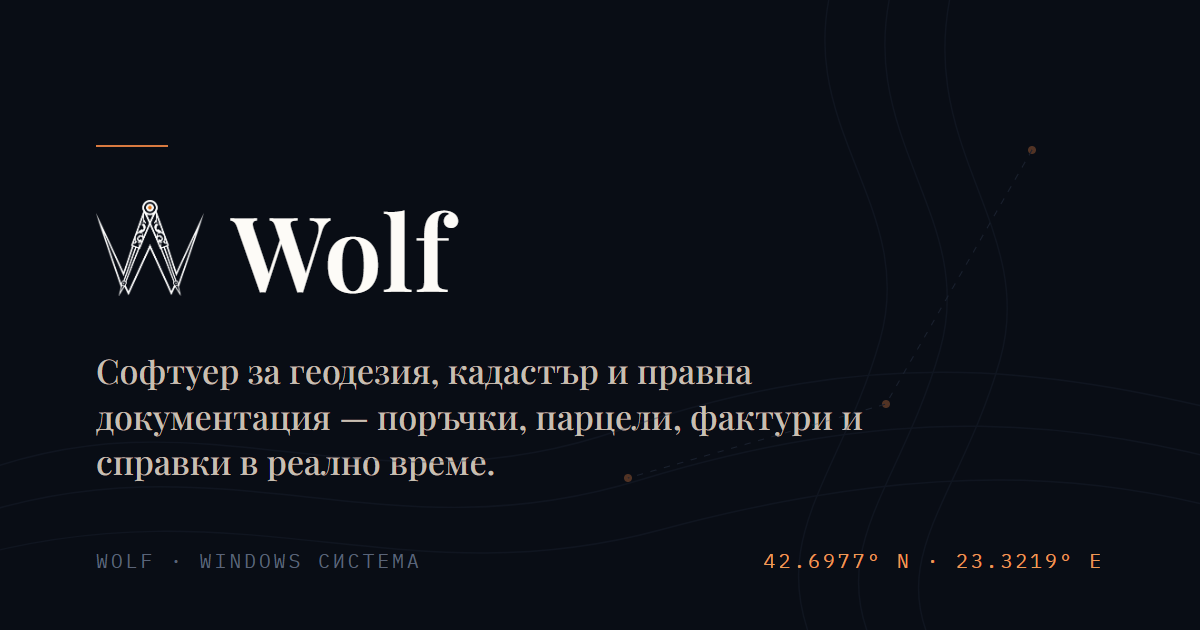
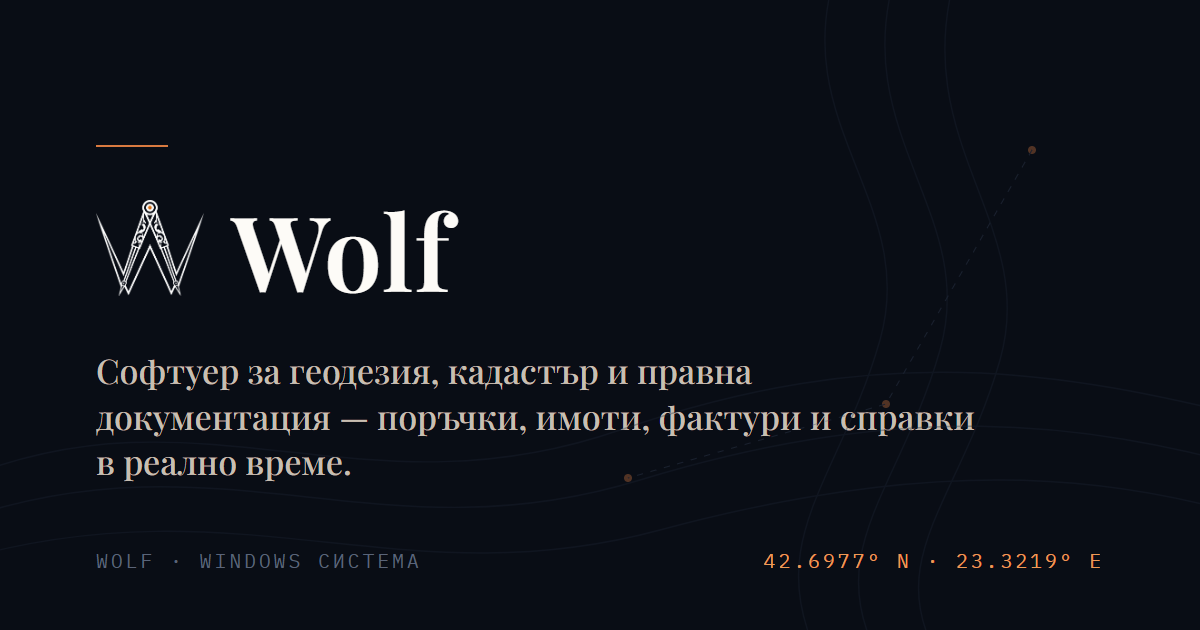
BG wording: 'partsel' -> 'imot' across site copy and OG image

Changed region(s): [[0.4625, 0.6333, 0.8325, 0.6937], [0.0617, 0.7238, 0.4317, 0.7841]]

diff --git a/src/lib/i18n/dictionaries.ts b/src/lib/i18n/dictionaries.ts
@@ -21,7 +21,7 @@ const bg = {
   meta: {
     title: "Wolf — Софтуер за геодезия, кадастър и правна документация",
     description:
-      "Wolf е многопотребителска система за управление на геодезическа, кадастрална и правна практика — поръчки, дейности, парцели, документи за собственост, фактуриране и отчети в реално време.",
+      "Wolf е многопотребителска система за управление на геодезическа, кадастрална и правна практика — поръчки, дейности, имоти, документи за собственост, фактуриране и отчети в реално време.",
   },
   nav: {
     product: "Продукт",
@@ -37,12 +37,12 @@ const bg = {
     titleA: "Поръчката,",
     titleB: "проследена до",
     titleC: "идеалната част.",
-    lead: "Wolf обединява поръчки, дейности и задачи, парцели и документи за собственост, фактури и отчети в една родна Windows система — с реална синхронизация между всички служители.",
+    lead: "Wolf обединява поръчки, дейности и задачи, имоти и документи за собственост, фактури и отчети в една родна Windows система — с реална синхронизация между всички служители.",
     ctaPrimary: "Заявете демо",
     ctaSecondary: "Разгледайте възможностите",
     note: "Изградено за геодезически, кадастрални и правни практики в България.",
     floatA: "Поръчка → дейности → задачи",
-    floatB: "Парцел → документ → собственик",
+    floatB: "Имот → документ → собственик",
     coord: "42.6977° N · 23.3219° E",
     scroll: "Скролирайте",
   },
@@ -61,7 +61,7 @@ const bg = {
     eyebrow: "Защо Wolf",
     title: "Специализирана, не обща CRM система",
     subtitle:
-      "Моделирането на собствеността — парцел ↔ документ ↔ собственик ↔ пълномощно с дробни идеални части — е същината, която общите инструменти не покриват.",
+      "Моделирането на собствеността — имот ↔ документ ↔ собственик ↔ пълномощно с дробни идеални части — е същината, която общите инструменти не покриват.",
     featured: {
       title: "Всеки отчита своята работа",
       body: "Wolf се различава от другите системи по това, че всеки служител отчита работата си поотделно. Виждате не само общото производство на практиката, а и самостоятелния принос на всеки — основа за по-коректно разпределение на възнагражденията спрямо труда и за по-точна отчетност на фирмата.",
@@ -78,7 +78,7 @@ const bg = {
       },
       {
         title: "Без чакане",
-        body: "Търсене, филтри и списъци реагират мигновено — дори с хиляди поръчки, парцели и задачи.",
+        body: "Търсене, филтри и списъци реагират мигновено — дори с хиляди поръчки, имоти и задачи.",
       },
       {
         title: "Грижи се само за себе си",
@@ -100,7 +100,7 @@ const bg = {
       orders: {
         tag: "Поръчки",
         title: "Поръчки — централният екран",
-        body: "Всички поръчки на практиката в една таблица: статус, плащане, цена, аванс, парцели и създател. Създаване, редакция, архивиране, търсене в реално време, цветни звезди по служител и автоматично изчислен статус на плащане.",
+        body: "Всички поръчки на практиката в една таблица: статус, плащане, цена, аванс, имоти и създател. Създаване, редакция, архивиране, търсене в реално време, цветни звезди по служител и автоматично изчислен статус на плащане.",
         bullets: [
           "Звезди по служител с палитра и цветови филтър",
           "Статус на плащане: платено / аванс / неплатено",
@@ -110,7 +110,7 @@ const bg = {
       titleChain: {
         tag: "Имоти и документи",
         title: "Веригата на собствеността",
-        body: "Тройната връзка парцел ↔ документ ↔ собственик ↔ пълномощно записва идеалните части, начина на придобиване и типа собственост. Това е специализираното сърце на кадастралния модел.",
+        body: "Тройната връзка имот ↔ документ ↔ собственик ↔ пълномощно записва идеалните части, начина на придобиване и типа собственост. Това е специализираното сърце на кадастралния модел.",
         bullets: [
           "Пълни кадастрални данни: КИ, УПИ, местност, община",
           "Нотариални актове, договори, завещания, актове за собственост",
@@ -130,7 +130,7 @@ const bg = {
       filters: {
         tag: "Филтри",
         title: "Разширени филтри за поръчки",
-        body: "Бързи превключватели (маркирани, просрочени, лични, за днес, за седмицата), падащи менюта по статус и текстови търсения по номер, име, населено място, парцел и УПИ.",
+        body: "Бързи превключватели (маркирани, просрочени, лични, за днес, за седмицата), падащи менюта по статус и текстови търсения по номер, име, населено място, имот и УПИ.",
         bullets: [
           "Множествен избор: клиенти, собственици, служители",
           "Филтри по статус на архив, задача и плащане",
@@ -173,7 +173,7 @@ const bg = {
         body: "Обобщаващи карти, финансов преглед, разбивка по статус, топ 5 служители и последни поръчки — с интерактивен филтър и плавно обновяване при масови промени.",
         bullets: [
           "Приходи, аванси, неплатени, общо фактурирано",
-          "Брой поръчки, клиенти, дейности, уникални парцели",
+          "Брой поръчки, клиенти, дейности, уникални имоти",
           "Достъп само за администратори",
         ],
       },
@@ -182,9 +182,9 @@ const bg = {
   titleChain: {
     eyebrow: "Специализираният модул",
     title: "Веригата на собствеността, моделирана коректно",
-    body: "Един парцел има множество документи. Един документ свързва множество собственици. Всеки собственик държи идеална част и може да бъде представляван чрез пълномощно. Wolf записва точно тази тройна връзка.",
+    body: "Един имот има множество документи. Един документ свързва множество собственици. Всеки собственик държи идеална част и може да бъде представляван чрез пълномощно. Wolf записва точно тази тройна връзка.",
     steps: [
-      { label: "Парцел", value: "КИ · УПИ · местност" },
+      { label: "Имот", value: "КИ · УПИ · местност" },
       { label: "Документ", value: "акт · номер · издател" },
       { label: "Собственик", value: "идеална част 1/3" },
       { label: "Пълномощно", value: "номер · дата" },

diff --git a/src/lib/docs/content.ts b/src/lib/docs/content.ts
@@ -195,7 +195,7 @@ export const DOC_PAGES: DocPage[] = [
           items: [
             "Дейности и задачи — работната разбивка с изпълнители, срокове и плащания",
             "Клиенти — кой е възложил поръчката, с роля и бърза връзка към статистиката му",
-            "Имоти и документи — парцелите по поръчката и документите за собственост",
+            "Имоти и документи — имотите по поръчката и документите за собственост",
             "Фактури — фактурите по поръчката с добавяне и редакция",
           ],
         },
@@ -475,7 +475,7 @@ export const DOC_PAGES: DocPage[] = [
     blocks: {
       bg: [
         { type: "img", slot: "PlotsTab", alt: "Екранът Имоти", title: "Wolf — Имоти" },
-        { type: "h2", id: "plots", text: "Имоти (парцели)" },
+        { type: "h2", id: "plots", text: "Имоти" },
         {
           type: "p",
           text: "Всеки имот носи пълните си кадастрални данни: кадастрален номер, УПИ, квартал, населено място, община, улица, местност и предназначение. Системата пази номерата уникални и не допуска дублирани записи.",

diff --git a/src/app/layout.tsx b/src/app/layout.tsx
@@ -35,7 +35,7 @@ export const metadata: Metadata = {
     template: "%s · Wolf",
   },
   description:
-    "Wolf — многопотребителска система за управление на геодезическа, кадастрална и правна практика. Поръчки, дейности, парцели, документи за собственост, фактури и отчети в реално време.",
+    "Wolf — многопотребителска система за управление на геодезическа, кадастрална и правна практика. Поръчки, дейности, имоти, документи за собственост, фактури и отчети в реално време.",
   metadataBase: new URL("https://bddimitrov18.github.io"),
   openGraph: {
     title: "Wolf — Software for surveying, cadastre & legal documentation",